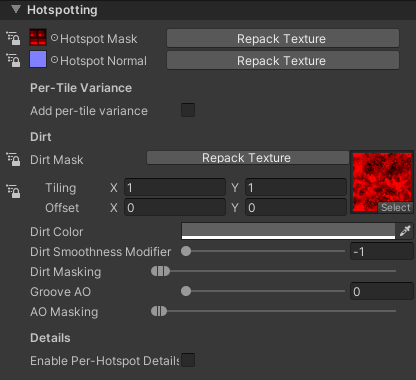
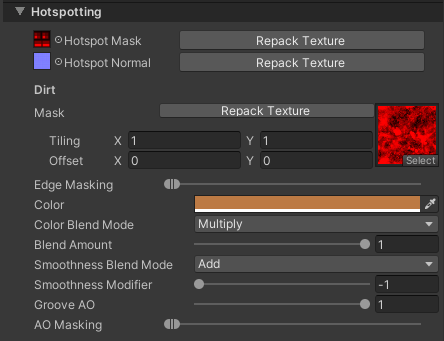
added hotspotting docs for dev.11

diff --git a/src/pages/docs/orl-standard/hotspotting.md b/src/pages/docs/orl-standard/hotspotting.md
@@ -34,7 +34,27 @@ Both of the above are included with the shader to be used together with the `Hot
 If you're using Unity 2022 or newer - it is highly recommended to use Material Variants when setting up Hotspotting materials. That way you can define the base settings like the hotspot mask and normal on the parent material and lock them, using the variants to only change the texture set and other individual settings
 {% /callout %}
 
+## Dirt
+
+- Mask: The main noise texture to be used for painting dirt on the surface
+- Edge Masking: Controls the spread of the dirt from the edges of the tiles
+- Color: Controls the color of the applied dirt
+- Color Blend Mode: Controls how the color is blended with base albedo
+  - Blend: Simply blends from base albedo to dirt color
+  - Add: Adds the dirt color to the base albedo
+  - Multiply: Multiplies the dirt color with the base albedo
+  - Overlay: Uses Overlay blending mode similar to Photoshop (Lightens the light colors and darkens the dark ones)
+- Blend Amount: Controls the intensity of Albedo changes
+- Smoothness Blend Mode: Controls how the dirt smoothness is blended with the base smoothness
+  - Add: **Smoothness Modifier** is added on top of the base smoothness
+  - Multiply: The base smoothness is multiplied by the **Smoothness Modifier**
+- Smoothness Modifier: Adjusts the smoothness of the dirt
+- Groove AO: Controls the strength of Ambient Occlusion in the grooves between the tiles
+- AO Masking: Controls the spread of the AO from the grooves of the tiles
+
 ## Per-Tile Variance
+
+![Hotspot Per-Tile Variance](/img/docs/orl-standard/hotspotting/hotspotting-per-tile.png "Hotspot Per-Tile Variance")
 
 - Add per-tile variance: Enables the per-tile variance features
 - Hotspot Id: Hotspot Tile mask, using a unique shade of gray for each tile, this should match the layout of **Hotpost Mask** and **Hotspot Normal**
@@ -42,26 +62,32 @@ If you're using Unity 2022 or newer - it is highly recommended to use Material V
 - Albedo Variance: Adjusts the amount of variance applied to albedo
 - Smoothness Variance: Adjusts the amount of variance applied to smoothness
 
-## Dirt
-
-- Dirt Mask: The main noise texture to be used for painting dirt on the surface
-- Dirt Color: Controls the color of the applied dirt
-- Dirt Smoothness Modifier: Adjusts the smoothness of the dirt
-- Dirt Masking: Adjusts the spread of the dirt from the edges of the tiles
-- Groove AO: Controls the strength of Ambient Occlusion in the grooves between the tiles
-- AO Masking: Controls the spread of the AO from the grooves of the tiles
-
 ## Details
 
-![Hotspotting Details](/img/docs/orl-standard/hotspotting/hotspotting-details.png "Hotspotting Details")
+![Hotspot Details](/img/docs/orl-standard/hotspotting/hotspotting-details.png "Hotspot Details")
 
 Hotspotting details act as a second material layer to be applied inside each of the hotspot tiles. This enables you to make materials like rusty metal that is only rusted on the edges, chipped paint, mossy stone, or any other mixed material that could benefit from such layering.
 
+### Masking
+
 - Masking: Controls the spread and edge sharpness of the overlaid details
-- Detail Normal: The normal map of the details
-- Detail Masks: Texture containing Metallic/Smoothness and AO maps. By default, uses this channel setup:
+- Mask Sharpness: Further adjusts the sharpness of the mask edge
+- Dirt Mask Influence: Controls how much the **Dirt Mask** influences the blending of the detail layer
+- Dirt Mask Influence Mode: Controls how does the **Dirt Mask** influence the blending of the detail layer
+  - Subtract: Subtracts the dirt mask value from the detail mask, creating a more varied edge
+  - Multiply: Multiplies the dirt mask value with the detail mask
+- Invert Dirt Mask Influence: Inverts the dirt mask influence when suing **Subtract** mode. Useful for breaking up the detail layer via the **Dirt Mask**
+
+### Material Properties
+
+- Color: Tints the details Albedo with a color
+- Albedo: The main albedo texture of the detail overlay
+- Masks: Texture containing Metallic/Smoothness and AO maps. By default, uses this channel setup:
   - Red: Metallic
   - Green: AO
   - Alpha: Smoothness
-- Detail Tint Color: Tints the details Albedo with a color
-- Detail Albedo: The main albedo texture of the detail overlay
+- Normal: The normal map of the details
+- Normal Scale: Scales the normal map of the details
+- Normal Blend Mode: Controls how the detail normals blend with the base layer normals
+  - Blend: Adds both normals together, useful for adding extra surface detail, e.g. rust on top of a metal surface, where you want the detail normal to follow the base normal
+  - Replace: Replaces the base normal with the detail normal in the masked region, e.g. tree bark on top of exposed wood grain
